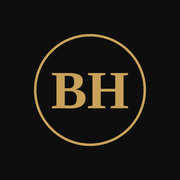
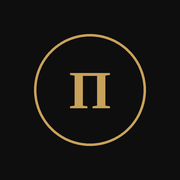
Демо переименовано в вымышленный барбершоп «Пробор»
Claude-Session: https://claude.ai/code/session_018dHtcwjs8ePayddAqgs9cp

Changed region(s): [[0.2778, 0.3889, 0.7222, 0.6111]]

diff --git a/config.js b/config.js
@@ -8,13 +8,13 @@
   - Фото кладутся в папку images/ и указываются как "images/имя.jpg". Если фото нет — пишите null, будет красивая заглушка.
   - После изменений запустите: python3 tools/build.py  (обновит иконки, манифест и кеш).
 
-  Сейчас здесь ДЕМО-ДАННЫЕ: барбершоп, адрес, телефон и мастера вымышлены.
+  Сейчас здесь ДЕМО-ДАННЫЕ вымышленного барбершопа «Пробор»: адрес, телефон и мастера вымышлены.
 */
 window.BH_CONFIG = {
   "brand": {
-    "name": "BARBER HOUSE",
-    "shortName": "Barber House",
-    "monogram": "BH",
+    "name": "ПРОБОР",
+    "shortName": "Пробор",
+    "monogram": "П",
     "tagline": "Мужской барбершоп",
     "city": "Москва"
   },
@@ -27,7 +27,7 @@ window.BH_CONFIG = {
 
   "hero": {
     "title": "Стрижка, которую замечают",
-    "text": "Добро пожаловать в Barber House. Аккуратная работа, честные цены и время, которое принадлежит только вам.",
+    "text": "Добро пожаловать в «Пробор». Аккуратная работа, честные цены и время, которое принадлежит только вам.",
     "photo": null
   },
 
@@ -101,7 +101,7 @@ window.BH_CONFIG = {
   "contacts": {
     "address": "Москва, ул. Образцовая, 12",
     "phone": "+7 (900) 000-00-00",
-    "telegram": "barberhouse_demo",
+    "telegram": null,
     "whatsapp": "79000000000",
     "vk": null,
     "mapUrl": null
@@ -125,5 +125,5 @@ window.BH_CONFIG = {
     "daysAhead": 14
   },
 
-  "demoNote": "Демо-прототип. Адрес, телефон, имена мастеров и расписание вымышлены. Запись никуда не отправляется."
+  "demoNote": "Демо-версия. Барбершоп «Пробор», его адрес, телефон, мастера и расписание вымышлены. Запись никуда не отправляется."
 };

diff --git a/sw.js b/sw.js
@@ -1,5 +1,5 @@
 // Сгенерировано tools/build.py — не редактируйте вручную.
-const V='v-87ada67dad';
+const V='v-1a375bee3d';
 const SHELL=['./','index.html','config.js','manifest.webmanifest','icons/icon-192.png','icons/icon-512.png','icons/apple-touch-icon.png'];
 self.addEventListener('install',e=>{e.waitUntil(caches.open(V).then(c=>c.addAll(SHELL)).then(()=>self.skipWaiting()))});
 self.addEventListener('activate',e=>{e.waitUntil(caches.keys().then(k=>Promise.all(k.filter(x=>x!==V).map(x=>caches.delete(x)))).then(()=>self.clients.claim()))});

diff --git a/README.md b/README.md
@@ -1,9 +1,9 @@
-# BARBER HOUSE — шаблон приложения для барбершопа
+# Шаблон приложения для барбершопа
 
 Мобильное веб-приложение (PWA): услуги и цены, мастера, онлайн-запись, контакты.
 Ставится на главный экран телефона и открывается без адресной строки браузера.
 
-Сейчас в `config.js` — **демо-данные вымышленного барбершопа**.
+Сейчас в `config.js` — **демо-данные вымышленного барбершопа «Пробор»**.
 
 ## Как устроен проект
 
